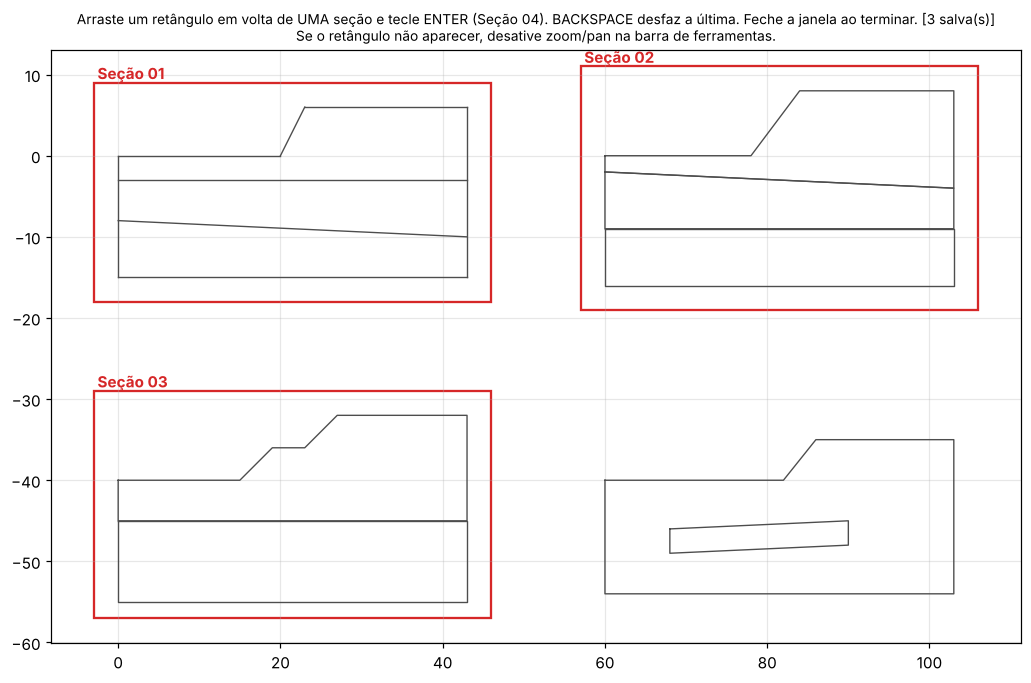
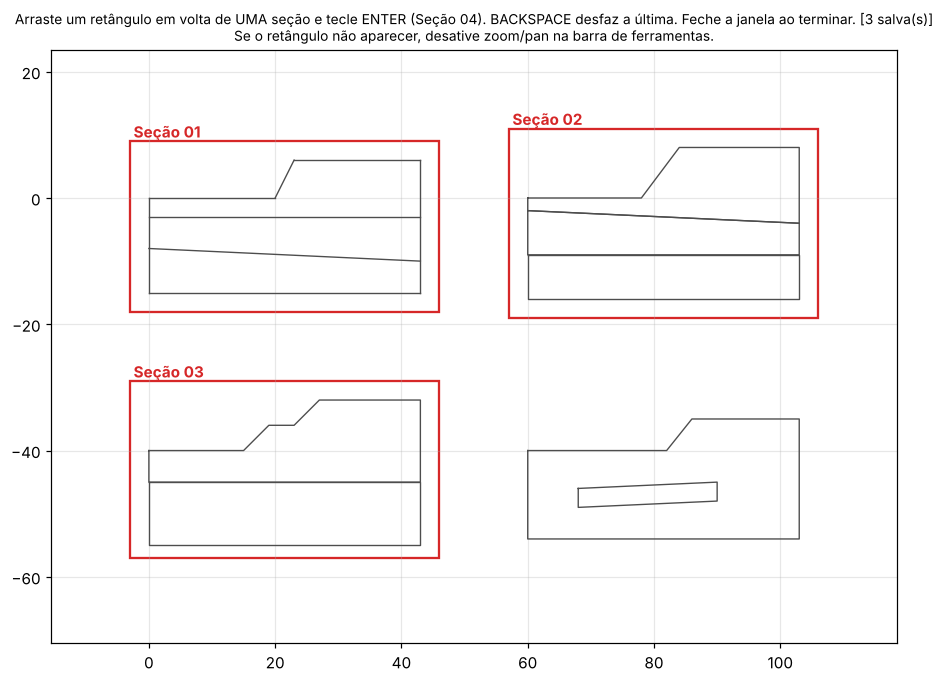
Módulo 02: mais espaço em volta das seções na tela de seleção
A folga passa a ser fixa, 15% da maior dimensão do desenho, em todas as bordas.
Antes era proporcional a cada eixo e, com seções lado a lado, quase não sobrava
espaço acima e abaixo para começar o retângulo (relatado no Windows, #2).

Claude-Session: https://claude.ai/code/session_016NX9F96X34gigu7jmLDSjT

diff --git a/modulos/02_cad_para_planilha/cad_para_planilha.py b/modulos/02_cad_para_planilha/cad_para_planilha.py
@@ -188,7 +188,12 @@ class SeletorJanelas:
             xs, ys = zip(*it["pts"])
             self.ax.plot(xs, ys, lw=0.9, color="0.3")
         self.ax.set_aspect("equal")
-        self.ax.margins(0.08)  # folga para desenhar janelas um pouco maiores que as seções
+        # Folga igual em todas as bordas (15% da maior dimensão do desenho), para haver espaço
+        # de clicar fora da seção e arrastar o retângulo, mesmo com seções lado a lado.
+        x0, y0, x1, y1 = bbox([p for it in itens for p in it["pts"]])
+        folga = 0.15 * max(x1 - x0, y1 - y0, 1e-6)
+        self.ax.set_xlim(x0 - folga, x1 + folga)
+        self.ax.set_ylim(y0 - folga, y1 + folga)
         self.ax.grid(alpha=0.3)
         self.janelas, self.artistas = [], []
         self.sel = RectangleSelector(self.ax, lambda a, b: None, useblit=False, button=[1], interactive=True)

diff --git a/CHANGELOG.md b/CHANGELOG.md
@@ -6,7 +6,8 @@
 - Modo `auto`: grupos contidos no retângulo de outro (lentes, bolsões) passam a pertencer a ele,
   em vez de virarem uma seção à parte.
 - Modo `auto`: numeração em ordem de leitura da prancha (linhas de cima para baixo, esquerda → direita).
-- Tela de seleção com folga nas bordas.
+- Tela de seleção com folga fixa de 15% da maior dimensão em todas as bordas, para haver espaço
+  de clicar fora da seção e arrastar o retângulo (antes as seções ficavam coladas na borda).
 
 ### v0.2
 - Modo `auto` mostra as janelas sugeridas no desenho (cada seção numa cor) antes de "Aceitar?";
